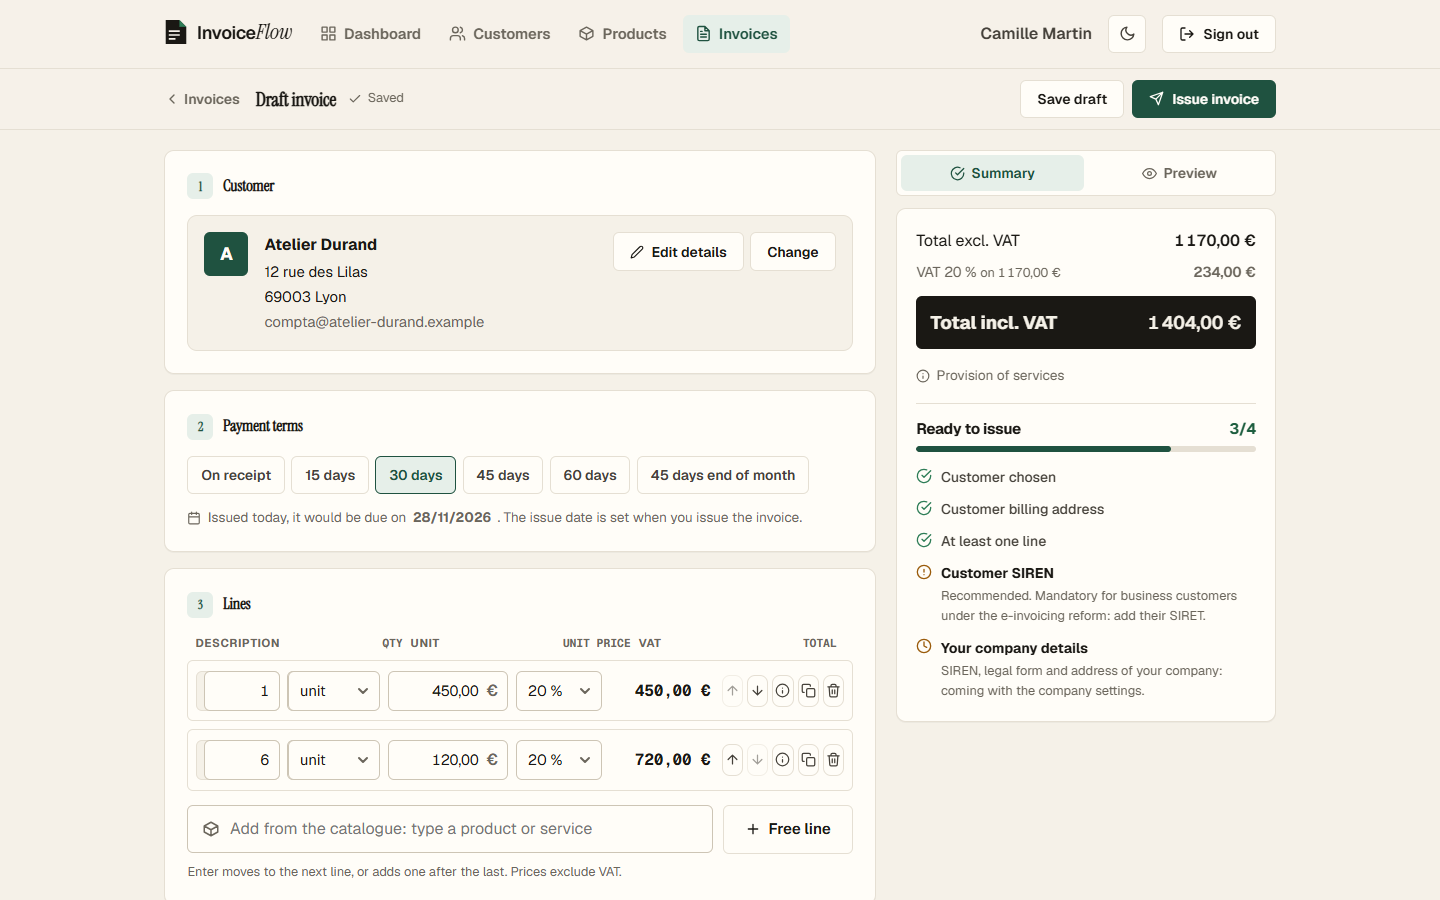
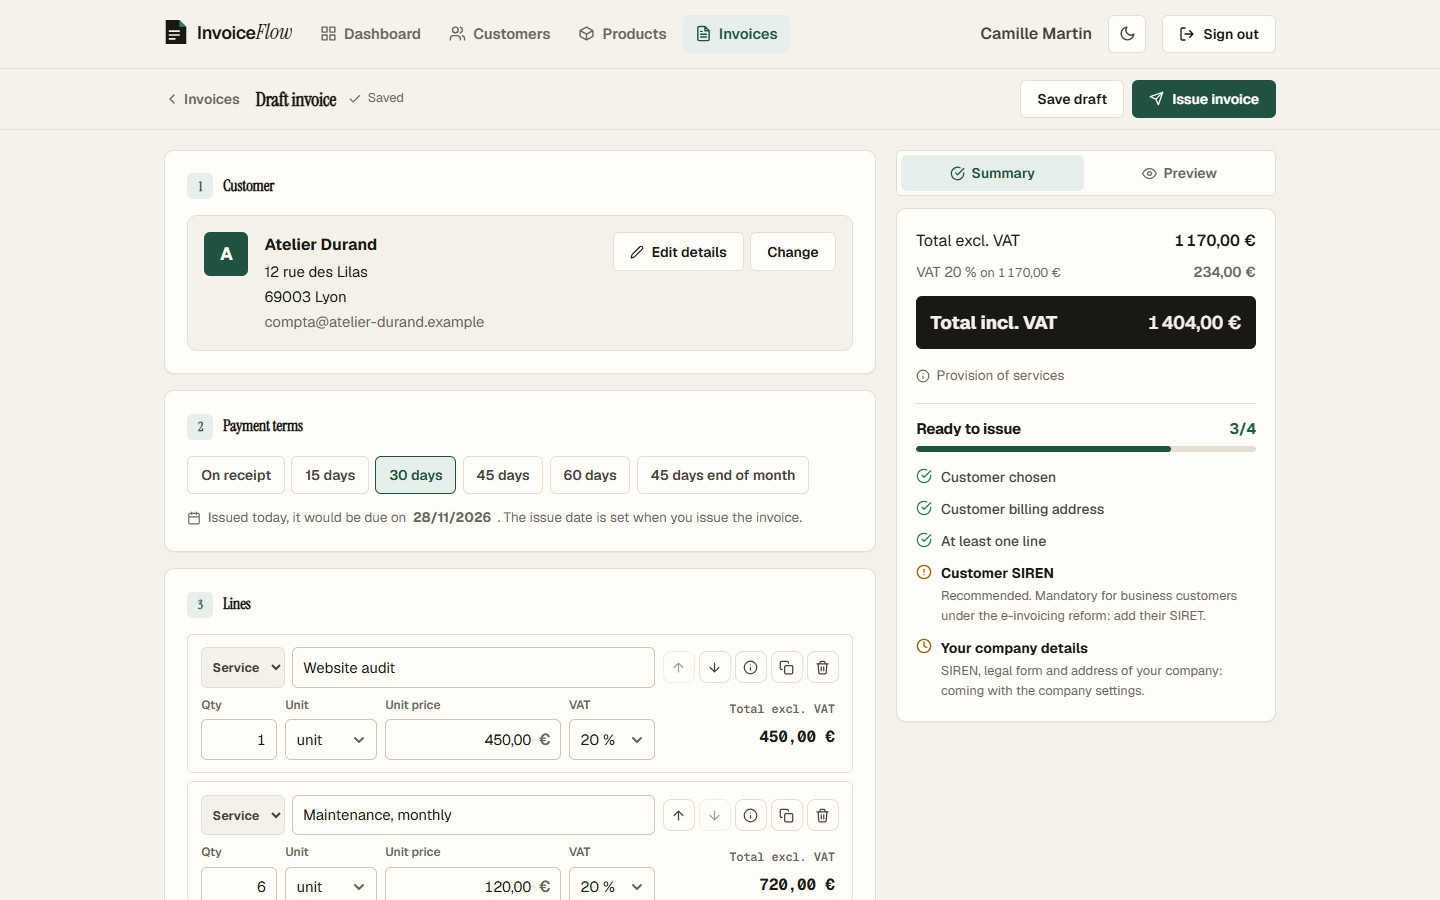
docs(readme): show the invoice editor now that its lines lay out correctly
Regenerated with npm run screenshots after the fix; the issued invoice image
only changes by its timestamps.

Refs #41

Changed region(s): [[0.125, 0.6844, 0.5938, 0.9956]]

diff --git a/README.md b/README.md
@@ -45,9 +45,9 @@
 |----------------------|-------------------|
 | ![Invoice list with key figures: drafts, outstanding, overdue, issued this month](docs/screenshots/invoices.png) | ![Issued invoice F-2026-0001 with its document, actions and timeline](docs/screenshots/invoice-issued.png) |
 
-| In-app documentation |
-|----------------------|
-| ![Architecture page of the in-app docs, rendered from the docs folder](docs/screenshots/docs.png) |
+| Invoice editor | In-app documentation |
+|----------------|----------------------|
+| ![Invoice editor with the customer card, payment terms, lines and the live totals and readiness checklist](docs/screenshots/invoice-editor.png) | ![Architecture page of the in-app docs, rendered from the docs folder](docs/screenshots/docs.png) |
 
 The images are generated by Playwright on the real stack (`npm run screenshots`), never edited by hand.
 
